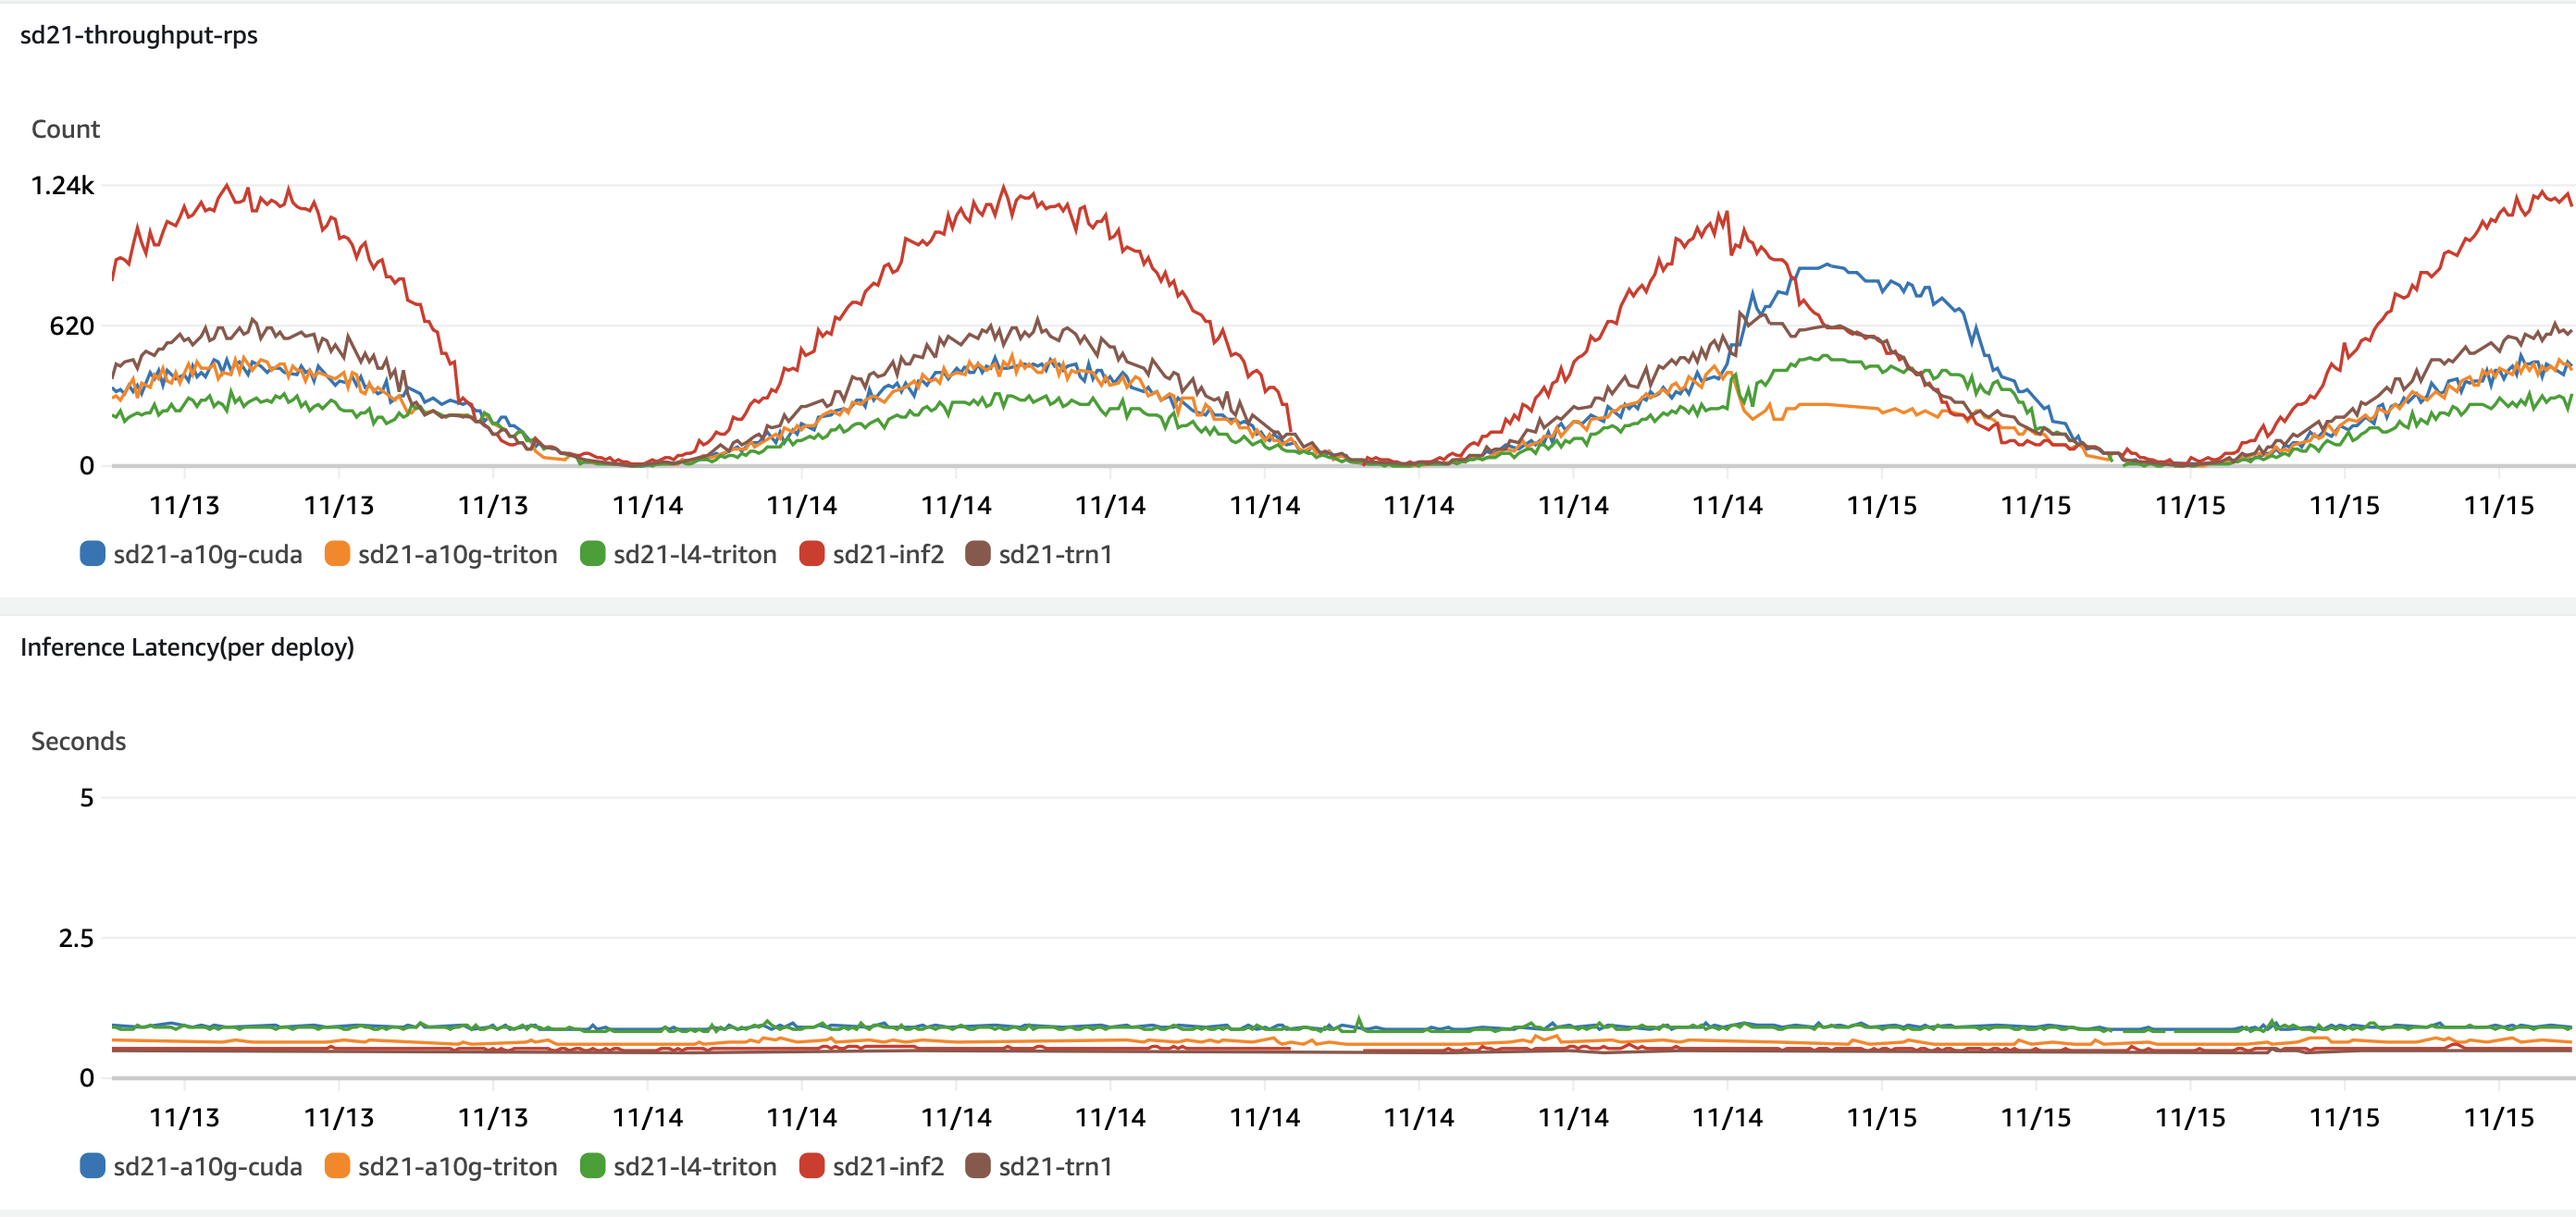
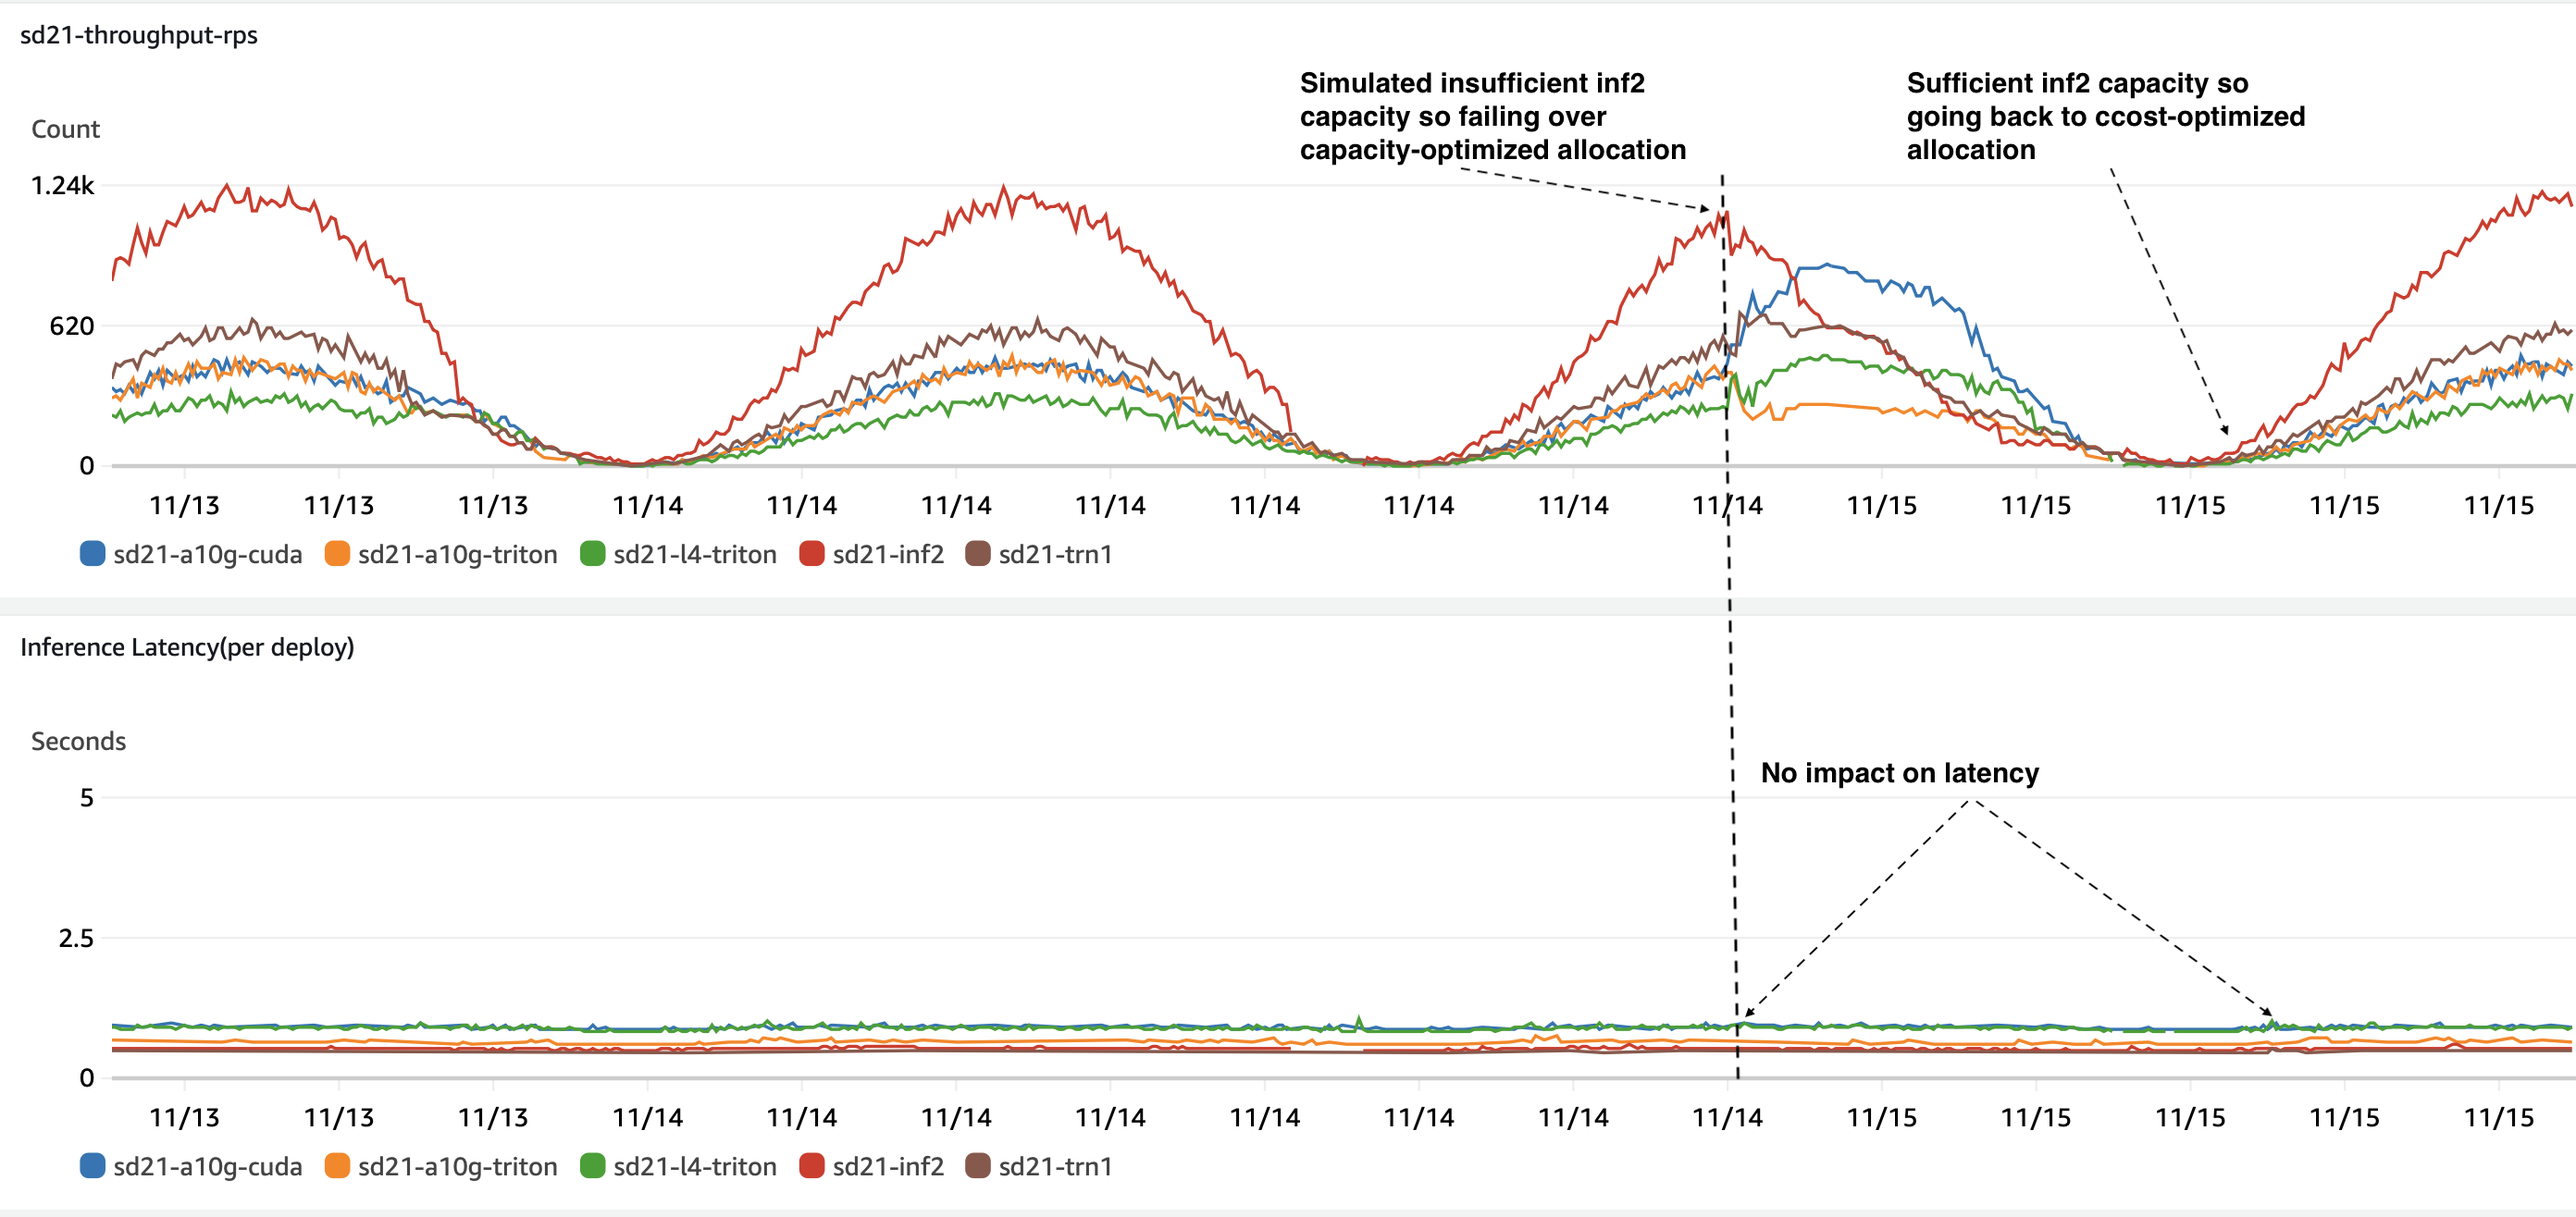
readme failover fallback - capacity to cost optimized1

Changed region(s): [[0.5, 0.0623, 0.6562, 0.1558], [0.7188, 0.0623, 0.9062, 0.1558], [0.6875, 0.6231, 0.7812, 0.6543]]

diff --git a/README.md b/README.md
@@ -241,7 +241,9 @@ Figure 8 illustrates the system's response to a sudden drop in supply, where a l
 *Figure 9 - Capacity optimized deployment HTTP throughput and compute usage*
 
 ### Option 3 - Failover to compute-optimized configuration with fallback to cost-optimized
-Next, we’ll run an operator that monitors the capacity of all Karpenter node pools and reacts to `insufficient capacity`. When a capacity issue is detected, the system switches to a capacity-optimized configuration for the rest of the load cycle, then automatically falls back to a cost-optimized setup at the start of a new load cycle by observing overall system throughput.
+In the experiment, the **insufficient capacity for Inf2** was simulated on **11/14**, prompting the controller to initiate a failover to the compute-optimized configuration to maintain throughput. The controller seamlessly transitioned to this configuration, managing the remaining load of the cycle without impacting latency, as seen in the consistent inference performance.
+
+At the **beginning of the next wave on 11/15**, when sufficient Inf2 capacity became available, the controller detected this change and automatically reverted to the cost-optimized allocation. This fallback ensured that the system could capitalize on cost savings while meeting performance requirements, as reflected in the stable throughput and controlled utilization of resources.
 
 ![Figure 10 - Failover to capacity-optimized configuration with fallback to cost-optimized throghput by capacity pool](./figures/figure10-cost-capacity-failover-fallback.png)
 *Figure 10 - Failover to capacity-optimized configuration with fallback to cost-optimized throughput by capacity pool*
